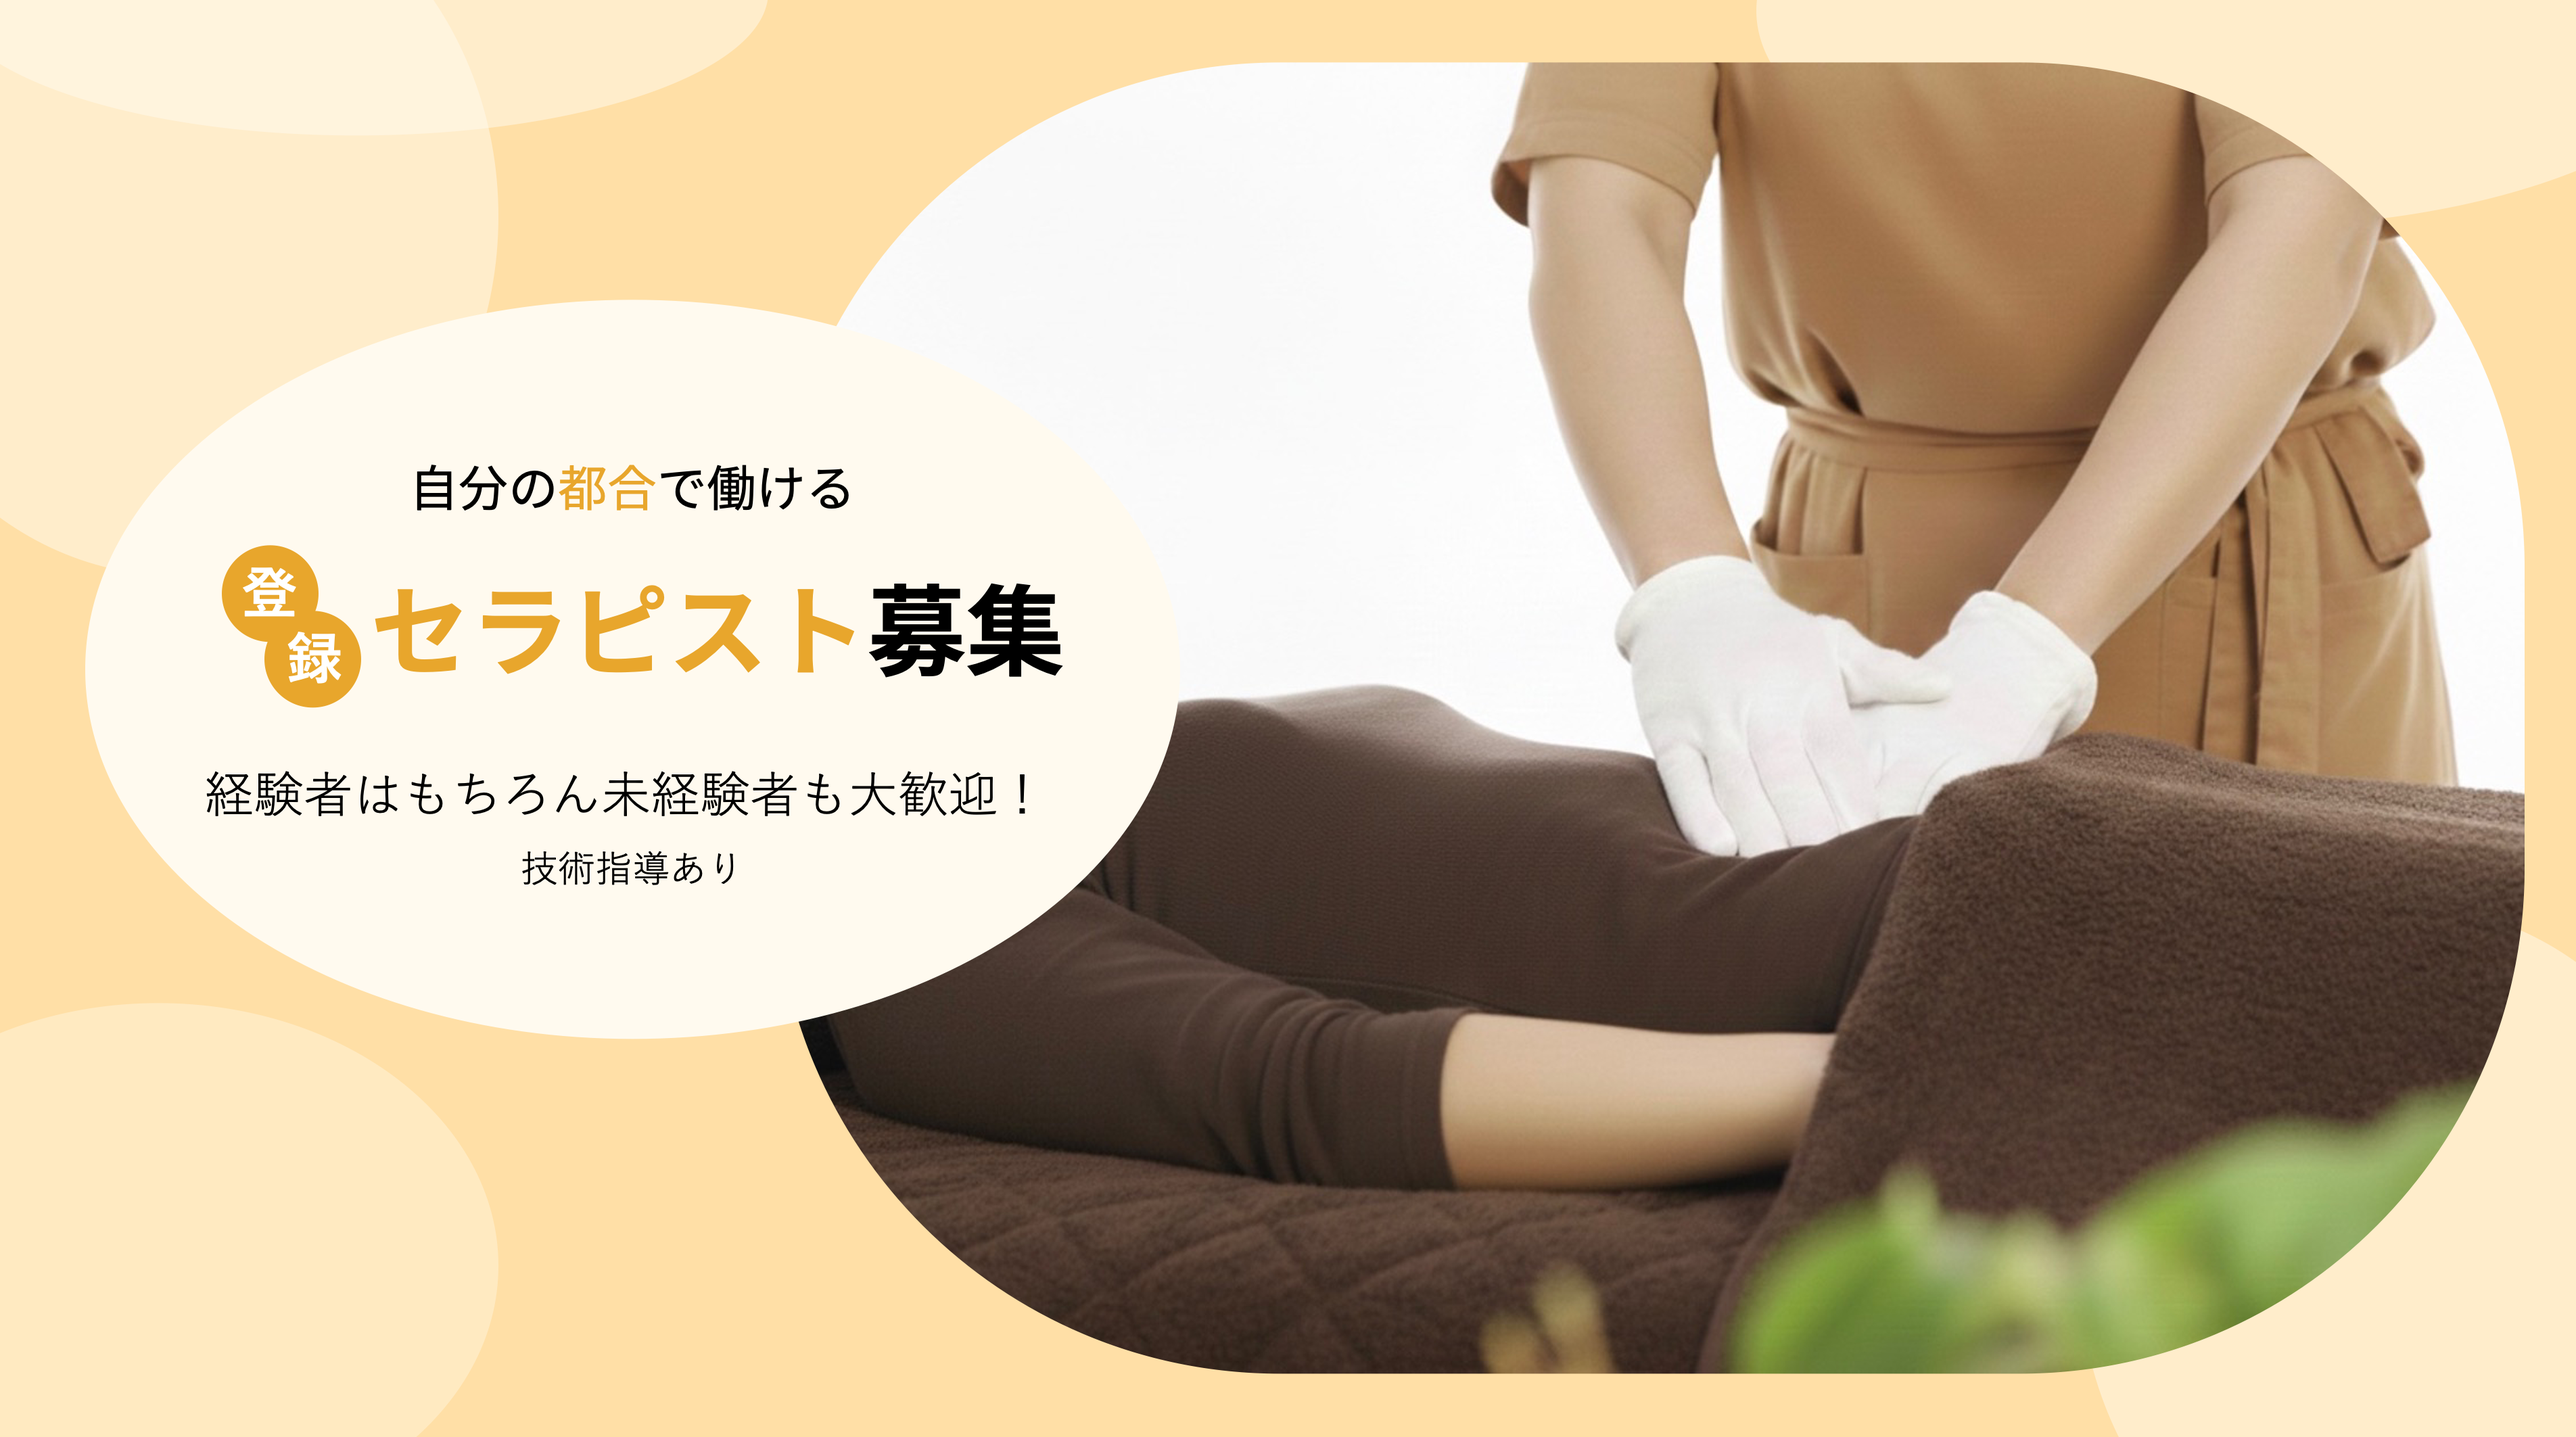
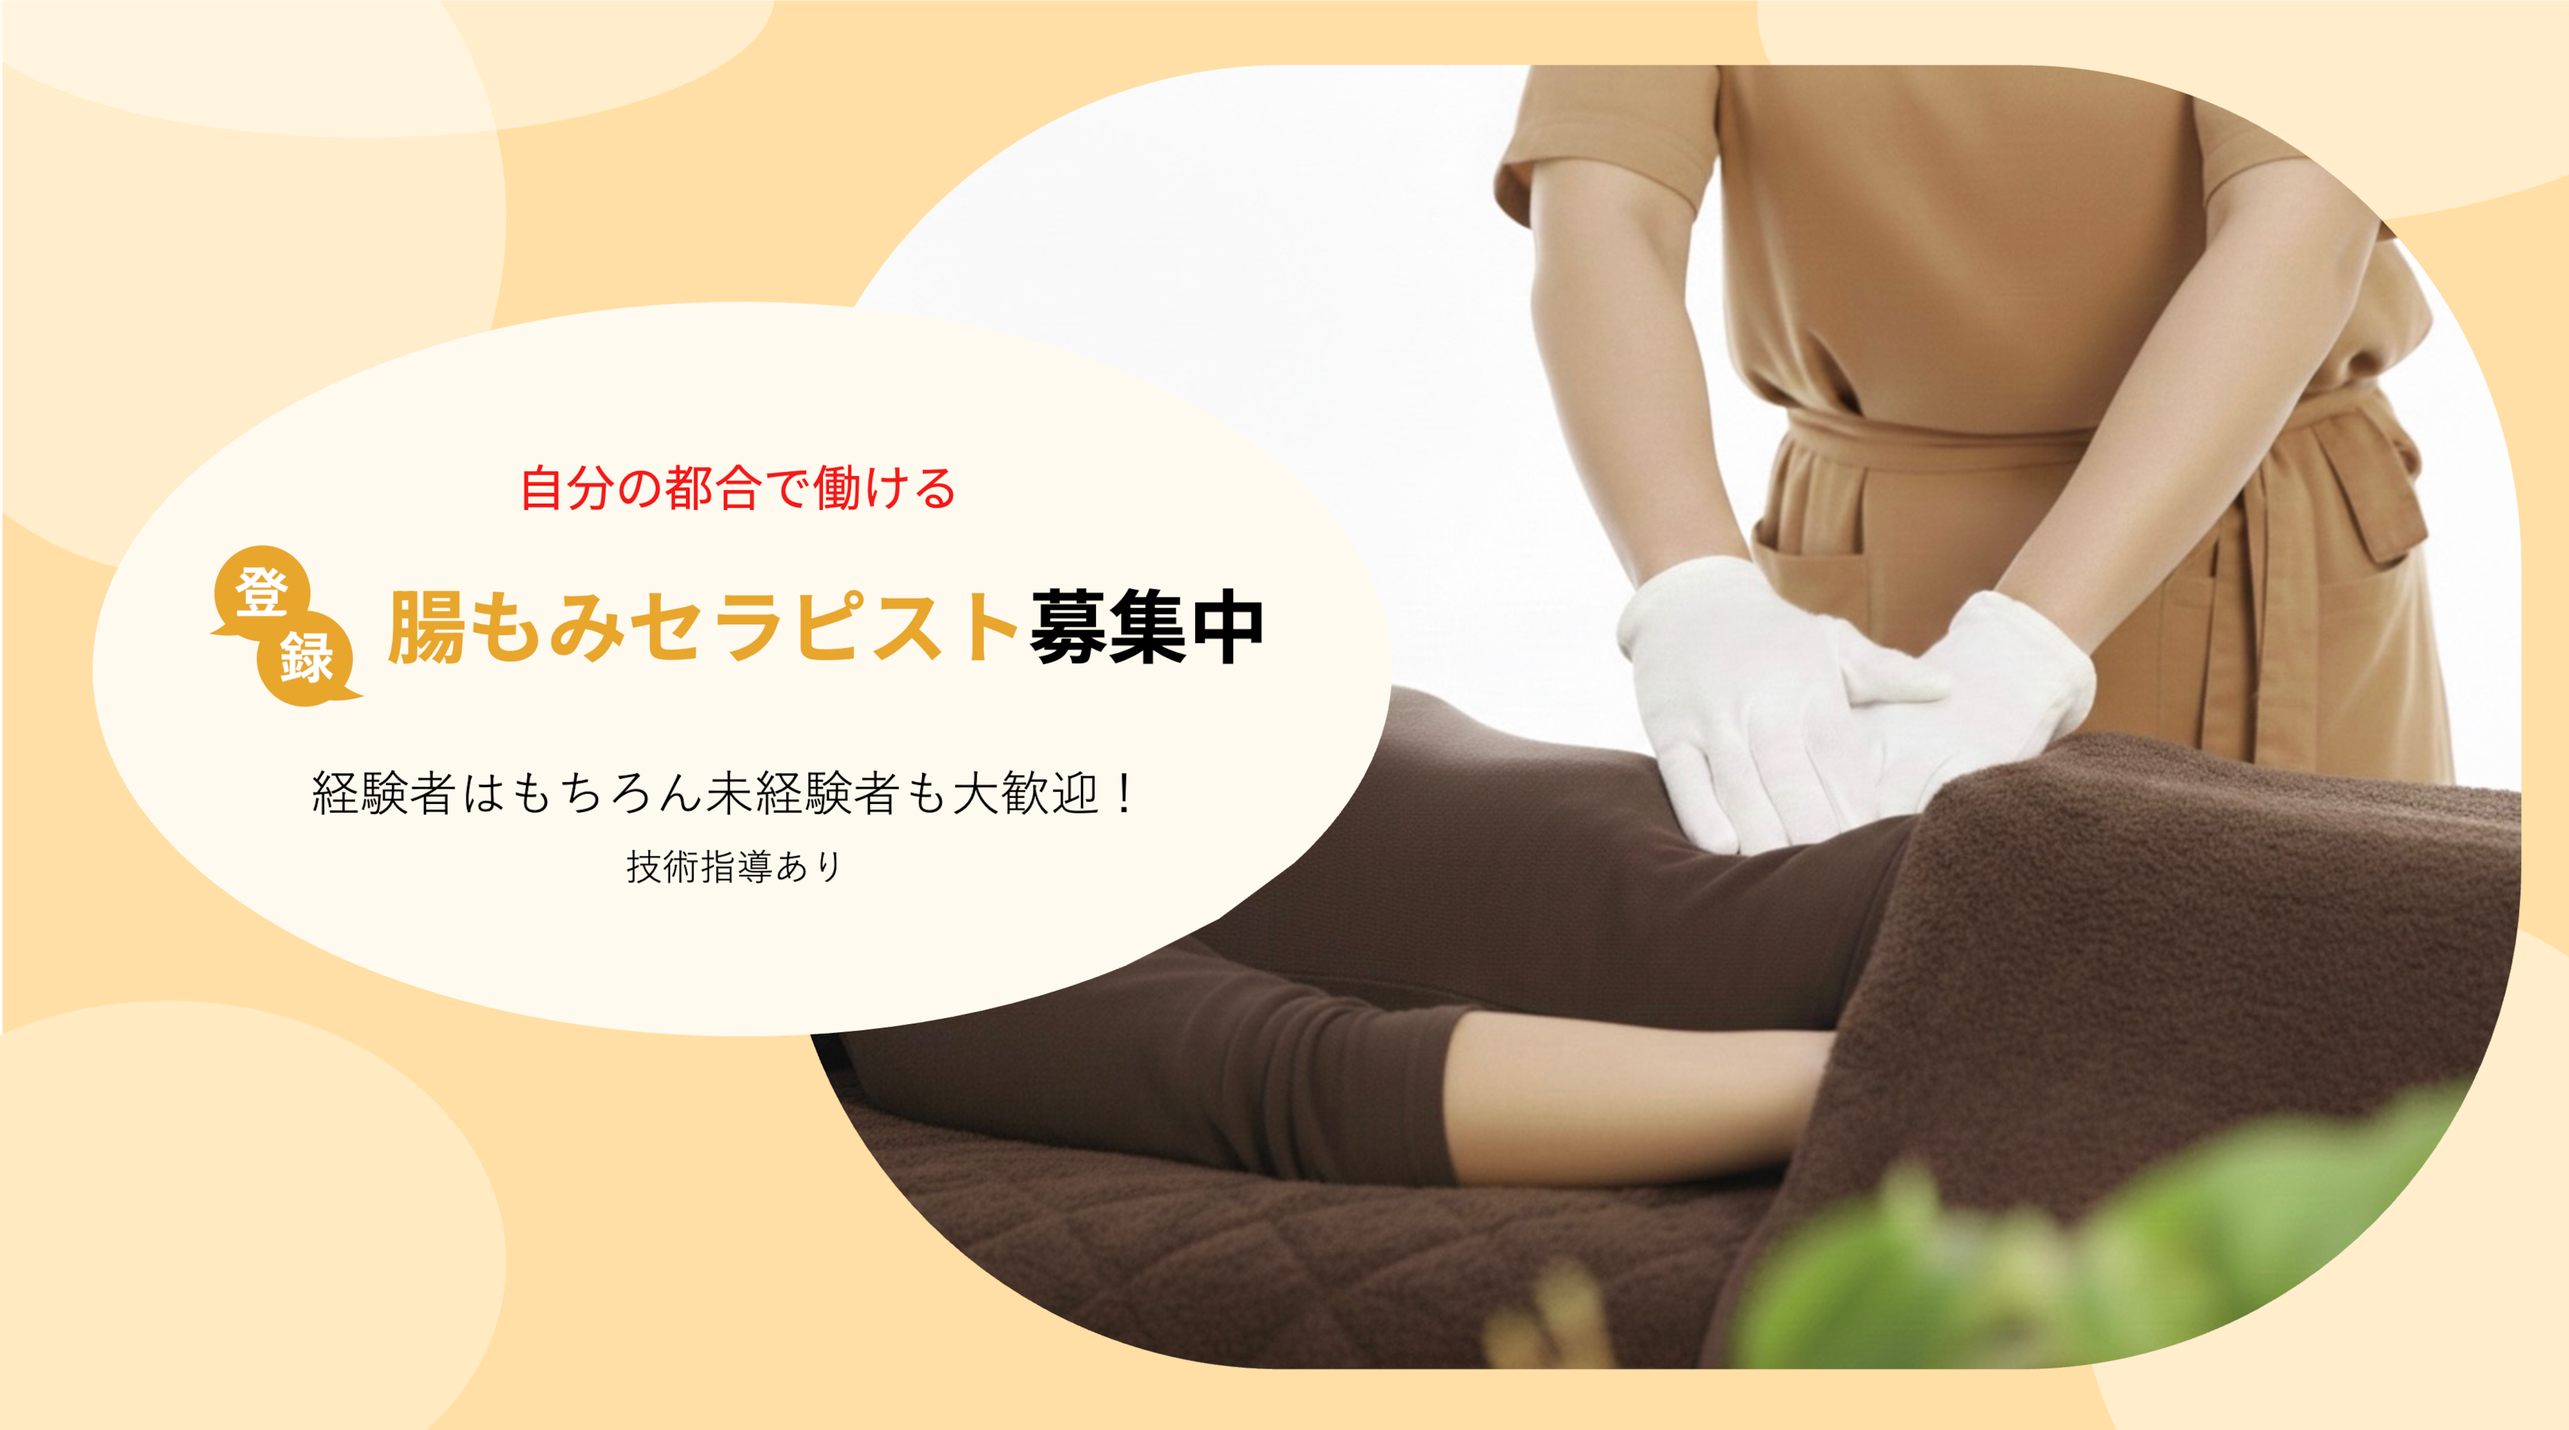
文言・デザイン修正

diff --git a/web/index.html b/web/index.html
@@ -7,9 +7,9 @@
         <meta name="viewport" content="width=device-width,initial-scale=1">
         <title>腸もみ専門サロン</title>
         <link rel="stylesheet" type="text/css" href="./common/common.css">
-        <link rel="stylesheet" type="text/css" href="./index.css">
+        <link rel="stylesheet" type="text/css" href="./index.css?20260121">
         <script src="./common/common.js"></script>
-        <script src="./index.js"></script>
+        <script src="./index.js?20260121"></script>
     </head>
     <body>
 
@@ -17,7 +17,7 @@
     		<div style="position: fixed;width:100%;bottom:0;background: #FDF4DF;z-index: 99">
     			<div style="padding:20px 40px">
     				<a href="./register/register.html" style="background: #52B534;display: block;line-height: 50px;font-size: 22px;color:#fff;border-radius: 10px;text-align: center;">
-    					セラピスト応募する
+    					腸もみセラピスト登録
     				</a>
     			</div>
     		</div>
@@ -36,17 +36,25 @@
                 こんな想いで立ち上げました
             </div>
         </div>
+
+        <div style="height:60px"></div>
+
+        <div style="text-align: center;">
+            <img src="./img/top/owner_pc.png" class="owner_img_pc">
+            <img src="./img/top/owner_sp.png" class="owner_img_sp">
+        </div>
+
         <div style="height:60px"></div>
         <div class="ideal_body">
             腸もみサロンを運営していた際、私自身の実感は勿論のこと、ご来店1回目からお客様に変化があり便通の改善や減量、体調が良くなっていく様子を口コミやLINEに届くメッセージから非常に満足度の高い施術だと確信していました。<br><br>
 
             しかしながらご遠方やサロンに事情があり通うのが難しいお客様から<br>
-            「腸もみ施術を受けたいけど近くにサロンがない」<br>
-            「小さい子どもがいるのでサロンまで行けない」<br>
-            「高齢者なのでサロンまで定期的に通うのが大変」<br>
+            「<span class="ideal_body_red">腸もみ施術を受けたいけど近くにサロンがない</span>」<br>
+            「<span class="ideal_body_red">小さい子どもがいるのでサロンまで行けない</span>」<br>
+            「<span class="ideal_body_red">高齢者なのでサロンまで定期的に通うのが大変</span>」<br>
             というお声をよくいただいていました。<br><br>
 
-            「腸もみをもっと拡げたい」<br>
+            「<span class="ideal_body_red">腸もみをもっと拡げたい</span>」<br>
             という想いでこの事業を立ち上げることにしました。<br><br>
 
             こんな方を募集しています<br>
@@ -81,7 +89,7 @@
                 <div class="point_base">
                     <img src="./img/top/point1.png" class="point_img">
                     <div class="point_text">
-                        普段、本業として自分のサロンや勤務先でセラピストとして働かれている方。<br>
+                        普段、本業として自分のサロンや勤務先で腸もみセラピストとして働かれている方。<br>
                         NUKUmomiなら店舗を借りる必要がないので固定費を浮かせて収入アップできます！<br>
                         出社する必要もなくお好きな場所で待機していただけます♪
                     </div>
@@ -101,8 +109,8 @@
                     <img src="./img/top/point3.png" class="point_img">
                     <div class="point_text">
                         朝型なので午前中だけ、どんな働き方でもOKです！<br>
-                        スケジュールは自分次第。<br>
-                        ライフステージに合わせて働き方を変えていただけます。
+                        スケジュールは自分次第。<br><br>
+                        <span style="font-size: 20px;font-weight: bold;">ライフステージに合わせて働き方を変えていただけます。</span>
                     </div>
                 </div>
             </div>
@@ -113,7 +121,7 @@
 
         <div style="text-align: center;">
             <div class="feature_title">
-                <span style="color:#507297;font-size: 28px">NUKU momi</span>の<span style="color:#507297;font-size: 28px">特徴</span>
+                NUKU momiの特徴
             </div>
         </div>
 
@@ -163,7 +171,7 @@
                     労災保険も完備で安心安全
                 </div>
                 <div class="feature_body">
-                    NUKU momideでは全ての腸もみセラピストに安心して活動いただけるよう全額弊社負担で弊社労災保険に加入いたします。
+                    NUKU momiでは全ての腸もみセラピストに安心して活動いただけるよう全額弊社負担で弊社労災保険に加入いたします。
                 </div>
             </div>
             <div class="feature_h_padding"></div>
@@ -225,21 +233,24 @@
                 </div>
                 <div style="margin-top: 30px;">
                     <div style="font-weight: bold;">
-                        （経験者）メインで勤務した場合
+                        メインで勤務した場合
                     </div>
-                    ・月22日勤務+インセンティブ=100万円以上可能（報酬率70％・6人施術/日の場合）
-                    <div style="font-weight: bold;">
-                        （経験者）副業・スキマ時間の場合
+                    <div style="margin-top: 3px;">
+                        <span style="color:#f41919;font-weight: bold;">100万円以上</span>可能
                     </div>
-                    ・月8日勤務+インセンティブ=13万円以上可能（報酬率70％・2人施術/日の場合）
-                    <div style="font-weight: bold;">
-                        （未経験者）メインで勤務した場合
+                    <div style="margin-top: 2px;font-size: 13px;">
+                        ※月22日勤務・6人/日施術の場合
                     </div>
-                    ・月22日勤務+インセンティブ=89万円以上可能（報酬率60％・6人施術/日の場合）
-                    <div style="font-weight: bold;">
-                        （未経験者）副業・スキマ時間の場合
+
+                    <div style="font-weight: bold;margin-top: 20px;">
+                        副業、スキマ時間で勤務した場合
                     </div>
-                    ・月8日勤務+インセンティブ=10万円以上可能（報酬率60％・2人施術/日の場合）
+                    <div style="margin-top: 3px;">
+                        <span style="color:#f41919;font-weight: bold;">13万円以上</span>可能
+                    </div>
+                    <div style="margin-top: 2px;font-size: 13px;">
+                        ※月8日勤務・2人/日施術した場合
+                    </div>
                 </div>
             </div>
         </div>
@@ -249,12 +260,14 @@
         <div class="bannar_base" style="background: #F7D28C;">
             <div style="padding:10px">
                 <div style="background: #FDF8E5;border-radius: 10px;">
-                    <div style="padding:30px 40px">
+                    <div style="padding:30px 26px">
                         <div style="color:#507297;font-size: 34px;font-weight: bold;text-align: center;">
                             NUKU momi
                         </div>
                         <div class="bannar_title">
-                            自分の都合・ライフステージに合わせて働き方を決める。
+                            自分の都合、<br>
+                            ライフステージに合わせて<br>
+                            働き方を決める。
                         </div>
                         <div style="text-align: center;margin-top: 30px;">
                             <a href="./register/register.html" class="bannar_link">
@@ -290,18 +303,11 @@
                 <div>
                     未経験の方だけでなく経験者の方の技術向上にも♪
                 </div>
-                <div>
-                    その他、セラピスト同士の交流の出来る掲示板なども開設予定♪
+                <div style="margin-top: 10px;">
+                    その他、腸もみセラピスト同士の交流の出来る掲示板なども開設予定♪
                 </div>
             </div>
             <div style="height:30px"></div>
-        </div>
-
-        <div style="height:60px"></div>
-
-        <div style="text-align: center;">
-            <img src="./img/top/owner_pc.png" class="owner_img_pc">
-            <img src="./img/top/owner_sp.png" class="owner_img_sp">
         </div>
 
         <div style="height:60px"></div>
@@ -601,7 +607,7 @@
             風俗サービスは一歳ございませんので予めご了承の上ご利用ください。<br>
             風俗的なサービスを強要された場合、施術を中止させて頂きます。<br>
             なお、その際に料金の返金には応じられませんのでご了承ください。<br>
-            セラピストのスカウト、個別での施術依頼などは一切禁止させて頂いております。<br>
+            腸もみセラピストのスカウト、個別での施術依頼などは一切禁止させて頂いております。<br>
             伝染病の方、泥酔の方、病気中の方、妊娠中の方などは施術をお断りする場合がございます。<br>
             ラブホテルやファッションホテル等でのご利用はいただけません。
         </div>

diff --git a/web/index.css b/web/index.css
@@ -47,6 +47,11 @@
     text-align: center;
     line-height: 34px;
 }
+.ideal_body_red {
+    font-size: 20px;
+    font-weight: bold;
+    color: #f41919;
+}
 @media screen and (max-width: 900px) {
     .ideal_body {
         width: 80%;
@@ -129,6 +134,7 @@
     white-space: nowrap;
     font-size: 28px;
     font-weight: bold;
+    color: #507297;
 }
 .feature_title::after {
     content: "";
@@ -299,10 +305,10 @@
 .image_root {
     background: #FDF4DF;
     border-radius: 10px;
-    width:800px;
+    width:400px;
     margin:0 auto;
 }
-@media screen and (max-width: 800px) {
+@media screen and (max-width: 400px) {
     .image_root {
         width:90%;
     }
@@ -312,7 +318,7 @@
     width:100%;
 }
 .bannar_title {
-    color:#507297;
+    color:#f41919;
     font-size: 40px;
     font-weight: bold;
     text-align: center;
@@ -340,7 +346,7 @@
         margin:0 auto;
     }
     .bannar_title {
-        font-size: 28px;
+        font-size: 20px;
     }
     .bannar_link {
         font-size: 16px;

diff --git a/web/index.js b/web/index.js
@@ -1,7 +1,7 @@
 
 function initialize() {
-	preload("topImgPc", "./img/top/top_pc_s.png", "./img/top/top_pc.png");
-	preload("topImgSp", "./img/top/top_sp_s.png", "./img/top/top_sp.png");
+	preload("topImgPc", "./img/top/top_pc_s.png?20260121", "./img/top/top_pc.png?20260121");
+	preload("topImgSp", "./img/top/top_sp_s.png?20260121", "./img/top/top_sp.png?20260121");
 }
 
 function preload(elemId, preSrc, src) {
